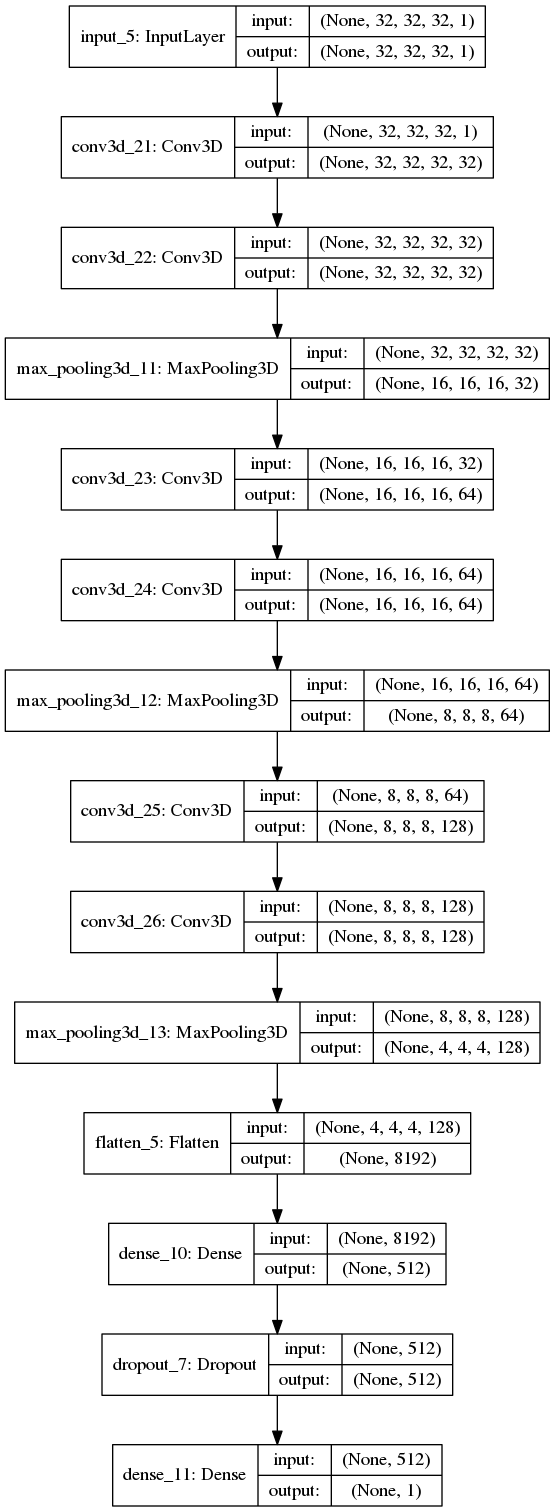
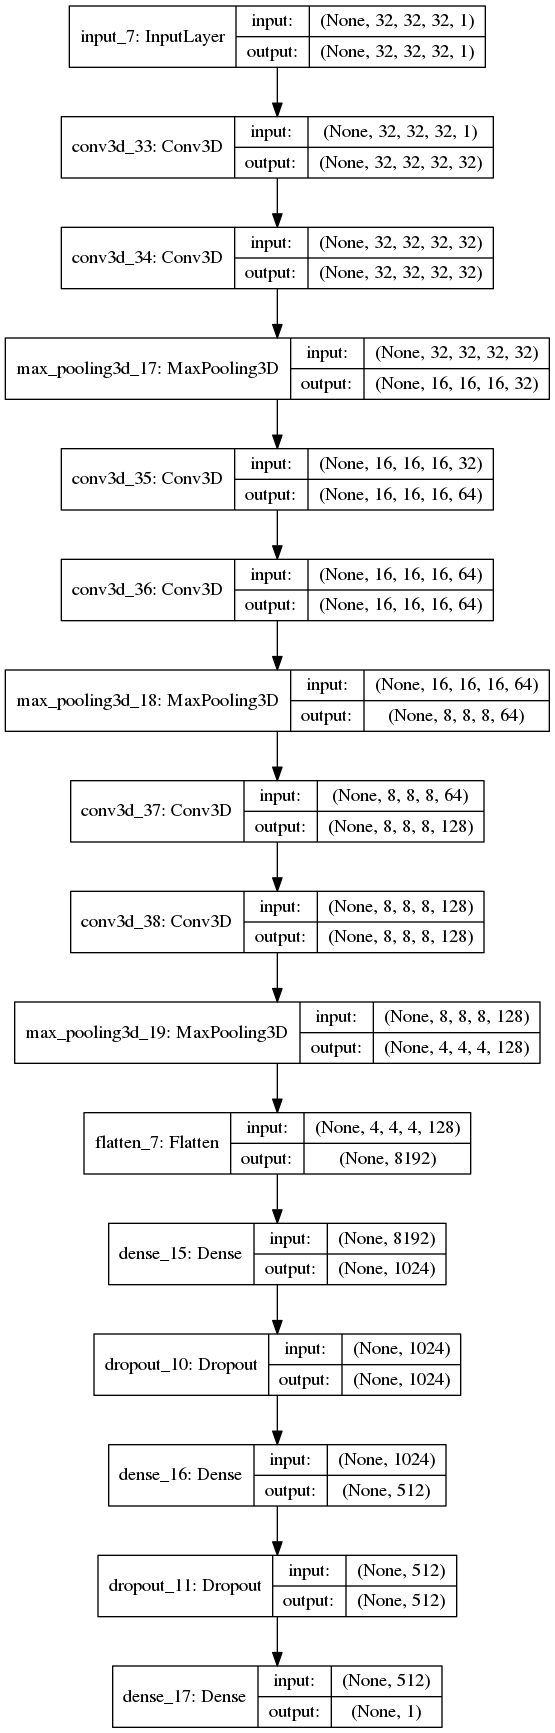
after this moment,i will add data argument in fpr-data,so do this backup

Changed region(s): [[0.0, 0.0, 1.0, 1.0], [0.0, 0.373, 0.0306, 0.4041]]

diff --git a/fpr_detect_test.py b/fpr_detect_test.py
@@ -8,23 +8,64 @@ Created on Wed Jun  6 17:07:17 2018
 
 import os
 
+import argparse
+
 import numpy as np
 import pandas as pd
 
 
+
+import tensorflow as tf
+import keras
+import keras.backend as K
+from keras.models import Model,load_model
+
+
+import data
 import config
+import layers
+
 config=config.config
 
 stage1_submit_path='/data/lungCT/luna/temp/submit/model6-epoch46-val.csv'
+
+model_path='/data/lungCT/luna/temp/savemodel_fpr/model2/epoch:009-trainloss:(0.057-0.057)-valloss:(0.077-0.077).h5'
+
+data_dir=config['data_prep_dir']
+
+
+
+#command line parameter setting
+parser = argparse.ArgumentParser()
+parser.add_argument('--phase', default='val', type=str, 
+                    help='train,val,test')
+args = parser.parse_args()
+data_phase=args.phase
+
+
+
+
+
+#load model
+if os.path.exists(model_path):
+    print ("****************************************************\n restore model from %s\n****************************************************"%model_path)
+    model=load_model(model_path,compile=False)  
+else:
+    raise Exception("no model")
+    
+    
+
 df=pd.read_csv(stage1_submit_path)
 
 df['p2']=0
 
-data_dir=config['data_prep_dir']
+
+
 for i in range(df.shape[0]):
     df.iloc[i,5]=i
     point=list(df.iloc[i,1:4].values)
     uid=df.iloc[i,0]
+    old_prob=df.iloc[i,4]
     
     cube_size=np.array([32,32,32],'int')
     
@@ -34,9 +75,14 @@ for i in range(df.shape[0]):
     img=np.load(path)
     img_shape=img.shape
   
-    xyz=point[::-1]
+    xyz=point
     
     xyz=np.array(xyz,'int')
+    if (xyz[0]>img_shape[1]) or (xyz[1]>img_shape[2]) or (xyz[2]>img_shape[3]):
+        df.iloc[i,5]=old_prob
+        print (xyz,img_shape)
+        continue
+    
     start=xyz-cube_size/2
     start=start.astype('int')
     comp=np.vstack((start,np.array([0,0,0])))
@@ -56,4 +102,15 @@ for i in range(df.shape[0]):
                          'constant', constant_values=170)
     
     cube = (cube.astype(np.float32)-128)/128
-    
+    cube=np.expand_dims(cube,-1)
+    pred=model.predict(cube)
+    new_prob=pred[0][0]
+    df.iloc[i,5]=new_prob
+    if pred[0][0]>0.4:
+        print ('old_propred:%.3f , new_prob:%.3f'%(old_prob,new_prob))
+        
+df['probability'],df['p2']=df['p2'],df['probability']
+
+save_path=stage1_submit_path.replace('.csv','-fpr.csv')
+df.to_csv(save_path,index=None)  
+print ("csv file saved in %s"%save_path)

diff --git a/data2.py b/data2.py
@@ -185,10 +185,10 @@ if __name__=='__main__':
      ooxx=data.get_item(True)
      
      
-     for i in range(1000000):
-         p=data.get_item(np.random.choice([True,False]))
-         if i%100==0:
-             print (i)
+#     for i in range(1000000):
+#         p=data.get_item(np.random.choice([True,False]))
+#         if i%100==0:
+#             print (i)
     
 # =============================================================================
 #     data_dir='/data/lungCT/luna/temp/luna_npy'

diff --git a/layers.py b/layers.py
@@ -162,9 +162,9 @@ def fpr_net():
     
     x=Flatten()(x)
     
-#    x=Dense(1024, )(x)
-##    x=LeakyReLU(alpha=0.3)(x)
-#    x=Dropout(0.5)(x)
+    x=Dense(1024, )(x)
+#    x=LeakyReLU(alpha=0.3)(x)
+    x=Dropout(0.5)(x)
     
     x=Dense(512, )(x)
 #    x=LeakyReLU(alpha=0.3)(x)
